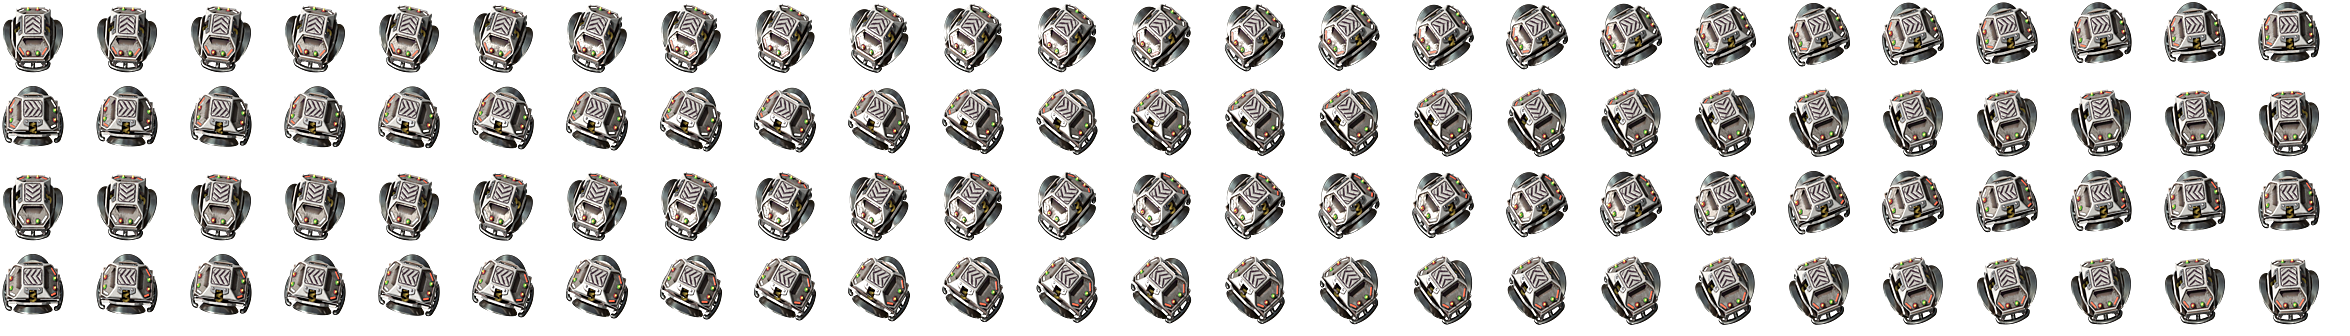
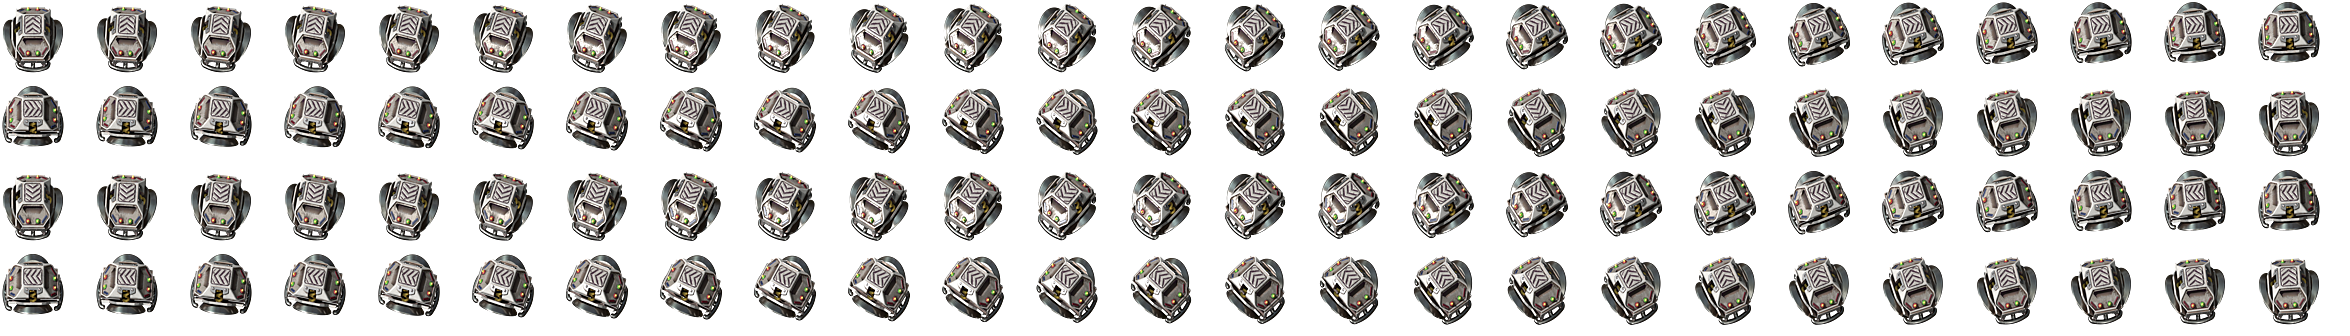
lamps sleep

diff --git a/3d/cart/hp2/fix.py b/3d/cart/hp2/fix.py
@@ -12,6 +12,7 @@
 import os
 
 import bpy
+import numpy as np
 
 import leds
 
@@ -118,13 +119,37 @@ def door_material():
     return m
 
 
-OFF_FRONT, OFF_REAR = srgb(18, 26, 58), srgb(58, 12, 12)     # выключенные лампы: тёмно-синий / тёмно-красный
+# Выключенные лампы. Автор: «у них должен быть виден фринель эффект. у передних синий отблеск, у задних бордовый»;
+# «сделай текстурой чтобы по краям был насыщенный свет»; затем: «синий только на фасках. плавный переход».
+# Градиент — по форме лампы, а не по UV (маска по UV давала цвет только на фасках): в плоскости лицевой грани лампа —
+# капсула (полудлина A, полуширина B); расстояние до её контура d ∈ [−B, 0] даёт t = 1 + d/B — 0 на осевой линии
+# (тёмная середина), 1 на контуре и дальше, на фасках и боковинах (насыщенный край). Переход плавный по всей ширине.
+OFF_CORE = {"front_lamps": srgb(16, 18, 30), "back_lamps": srgb(42, 11, 17)}        # середина
+OFF_EDGE = {"front_lamps": srgb(62, 82, 150), "back_lamps": srgb(160, 22, 48)}  # край
+EDGE_POW = 3.0                  # кривая t: смесь идёт в линейном цвете — 30 % яркого синего уже светлое на глаз, поэтому круто
 
 
-def lamp_off_material(name, col):
-    """Выключенная лампа (днём, без карты света): стекло без свечения, сердцевина темнее краёв — «пустая».
-    Радиус — по Generated (0..1 в рамке лампы) от её центра."""
-    m = bpy.data.materials.new(name)
+def lamp_frame(o):
+    """Центр, оси (длинная, короткая) и полуразмеры лампы целиком (с фасками) в плоскости её лицевой грани,
+    в локальных координатах: по одной лицевой грани (узкая плоская середина) тёмной выходила только черта."""
+    me = o.data
+    big = max(me.polygons, key=lambda p: p.area)
+    pts = np.array([v.co[:] for v in me.vertices])
+    n = np.array(big.normal[:])
+    q = pts - pts.mean(0)
+    q -= np.outer(q @ n, n)
+    _, vec = np.linalg.eigh(q.T @ q)
+    u = vec[:, 2]                                  # длинная ось
+    v = np.cross(n, u)
+    pu, pv = q @ u, q @ v
+    c = pts.mean(0) + u * (pu.max() + pu.min()) / 2 + v * (pv.max() + pv.min()) / 2
+    return c, u, v, (pu.max() - pu.min()) / 2, (pv.max() - pv.min()) / 2
+
+
+def lamp_off_material(o, core, edge):
+    """Выключенная лампа (днём, без карты света): без свечения, цвет середина ↔ край по расстоянию до контура."""
+    c, u, v, A, B = lamp_frame(o)
+    m = bpy.data.materials.new("lamp_off_" + o.name)
     m.use_nodes = True
     nt = m.node_tree
     nt.nodes.clear()
@@ -132,27 +157,46 @@ def lamp_off_material(name, col):
     out = nt.nodes.new('ShaderNodeOutputMaterial')
     b = nt.nodes.new('ShaderNodeBsdfPrincipled')
     L(b.outputs["BSDF"], out.inputs["Surface"])
-    b.inputs["Roughness"].default_value = 0.18
+    b.inputs["Roughness"].default_value = 0.3
     b.inputs["Metallic"].default_value = 0.0
+
+    def vm(op, a_, b_=None):
+        n_ = nt.nodes.new('ShaderNodeVectorMath')
+        n_.operation = op
+        for i, x in enumerate((a_, b_)):
+            if x is None:
+                continue
+            if isinstance(x, bpy.types.NodeSocket):
+                L(x, n_.inputs[i])
+            else:
+                n_.inputs[i].default_value = x
+        return n_.outputs["Value" if op in ('DOT_PRODUCT', 'LENGTH') else "Vector"]
+
+    def mt(op, a_, b_=0.0):
+        n_ = nt.nodes.new('ShaderNodeMath')
+        n_.operation = op
+        for i, x in enumerate((a_, b_)):
+            if isinstance(x, bpy.types.NodeSocket):
+                L(x, n_.inputs[i])
+            else:
+                n_.inputs[i].default_value = x
+        return n_.outputs[0]
+
     tc = nt.nodes.new('ShaderNodeTexCoord')
-    sub = nt.nodes.new('ShaderNodeVectorMath')
-    sub.operation = 'SUBTRACT'
-    sub.inputs[1].default_value = (0.5, 0.5, 0.5)
-    L(tc.outputs["Generated"], sub.inputs[0])
-    ln = nt.nodes.new('ShaderNodeVectorMath')
-    ln.operation = 'LENGTH'
-    L(sub.outputs[0], ln.inputs[0])
-    r = nt.nodes.new('ShaderNodeMapRange')
-    r.interpolation_type = 'SMOOTHSTEP'
-    r.inputs["From Min"].default_value, r.inputs["From Max"].default_value = 0.45, 0.8
-    r.inputs["To Min"].default_value, r.inputs["To Max"].default_value = 0.25, 1.0   # центр — четверть яркости края
-    L(ln.outputs["Value"], r.inputs["Value"])
+    p = vm('SUBTRACT', tc.outputs["Object"], tuple(c))
+    px = mt('ABSOLUTE', vm('DOT_PRODUCT', p, tuple(u)))
+    py = vm('DOT_PRODUCT', p, tuple(v))
+    qx = mt('MAXIMUM', mt('SUBTRACT', px, A - B), 0.0)          # капсула: отрезок ±(A−B) по длинной оси, радиус B
+    cx = nt.nodes.new('ShaderNodeCombineXYZ')
+    L(qx, cx.inputs["X"])
+    L(py, cx.inputs["Y"])
+    d = mt('SUBTRACT', vm('LENGTH', cx.outputs["Vector"]), B)
+    t = mt('POWER', mt('MAXIMUM', mt('MINIMUM', mt('ADD', mt('DIVIDE', d, B), 1.0), 1.0), 0.0), EDGE_POW)
     mx = nt.nodes.new('ShaderNodeMix')
     mx.data_type = 'RGBA'
-    mx.blend_type = 'MULTIPLY'
-    mx.inputs["Factor"].default_value = 1.0
-    mx.inputs[6].default_value = col
-    L(r.outputs["Result"], mx.inputs[7])
+    L(t, mx.inputs["Factor"])
+    mx.inputs[6].default_value = core
+    mx.inputs[7].default_value = edge
     L(mx.outputs[2], b.inputs["Base Color"])
     return m
 
@@ -165,12 +209,11 @@ def apply(lamps_off=False):
     door.data.materials.clear()
     door.data.materials.append(door_material())
     white, red, rim = leds.material("led_front", *leds.FRONT), leds.material("led_rear", *leds.REAR), leds.rim_material()
-    off = {"front_lamps": lamp_off_material("led_front_off", OFF_FRONT),
-           "back_lamps": lamp_off_material("led_rear_off", OFF_REAR)}
     for o in bpy.data.collections["CART_A"].all_objects:
         if o.parent and o.parent.name in ("front_lamps", "back_lamps"):
             on = rim if o.name.startswith("rim") else white if o.parent.name == "front_lamps" else red
-            mat = off[o.parent.name] if lamps_off and on is not rim else on
+            g = o.parent.name
+            mat = lamp_off_material(o, OFF_CORE[g], OFF_EDGE[g]) if lamps_off and on is not rim else on
             LAMPS[o] = on
             o.data.materials.clear()
             o.data.materials.append(mat)

diff --git a/3d/cart/hp2/compose_atlas.py b/3d/cart/hp2/compose_atlas.py
@@ -134,6 +134,8 @@ def main():
     for suf, (objs, shads, lights) in layers.items():
         out = []
         for nm, ims in (("", objs), ("-shadow", shads), ("-light", lights)):
+            if suf and nm == "-light":
+                continue                            # свет от колёс не зависит — у листа B своего нет
             sh_ = Image.new("RGBA", (w * LINE, h * -(-n // LINE)))
             for i in range(n):
                 sh_.paste(ims[i].crop((x0, y0, x0 + w, y0 + h)), ((i % LINE) * w, (i // LINE) * h))
